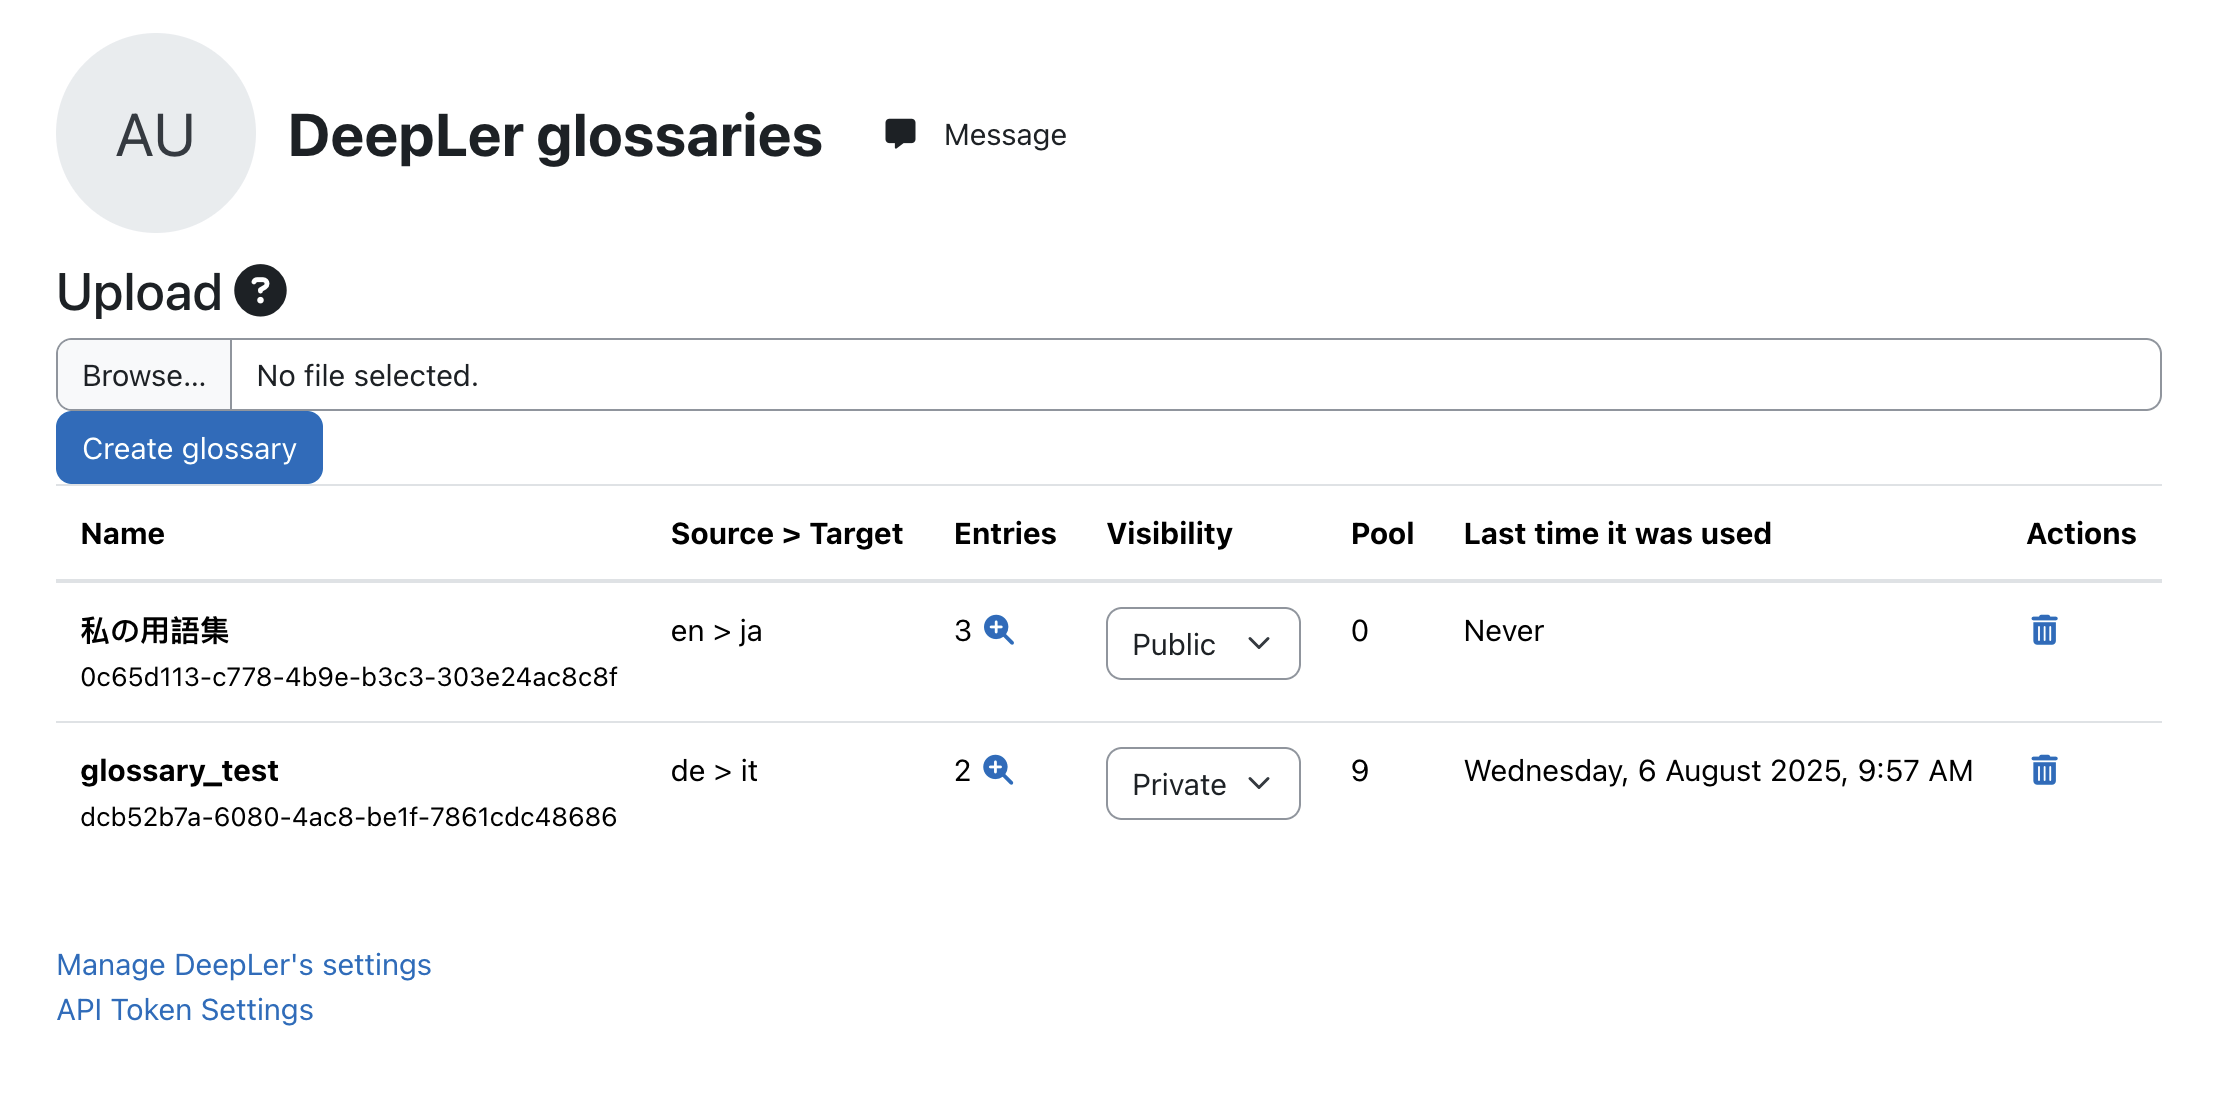
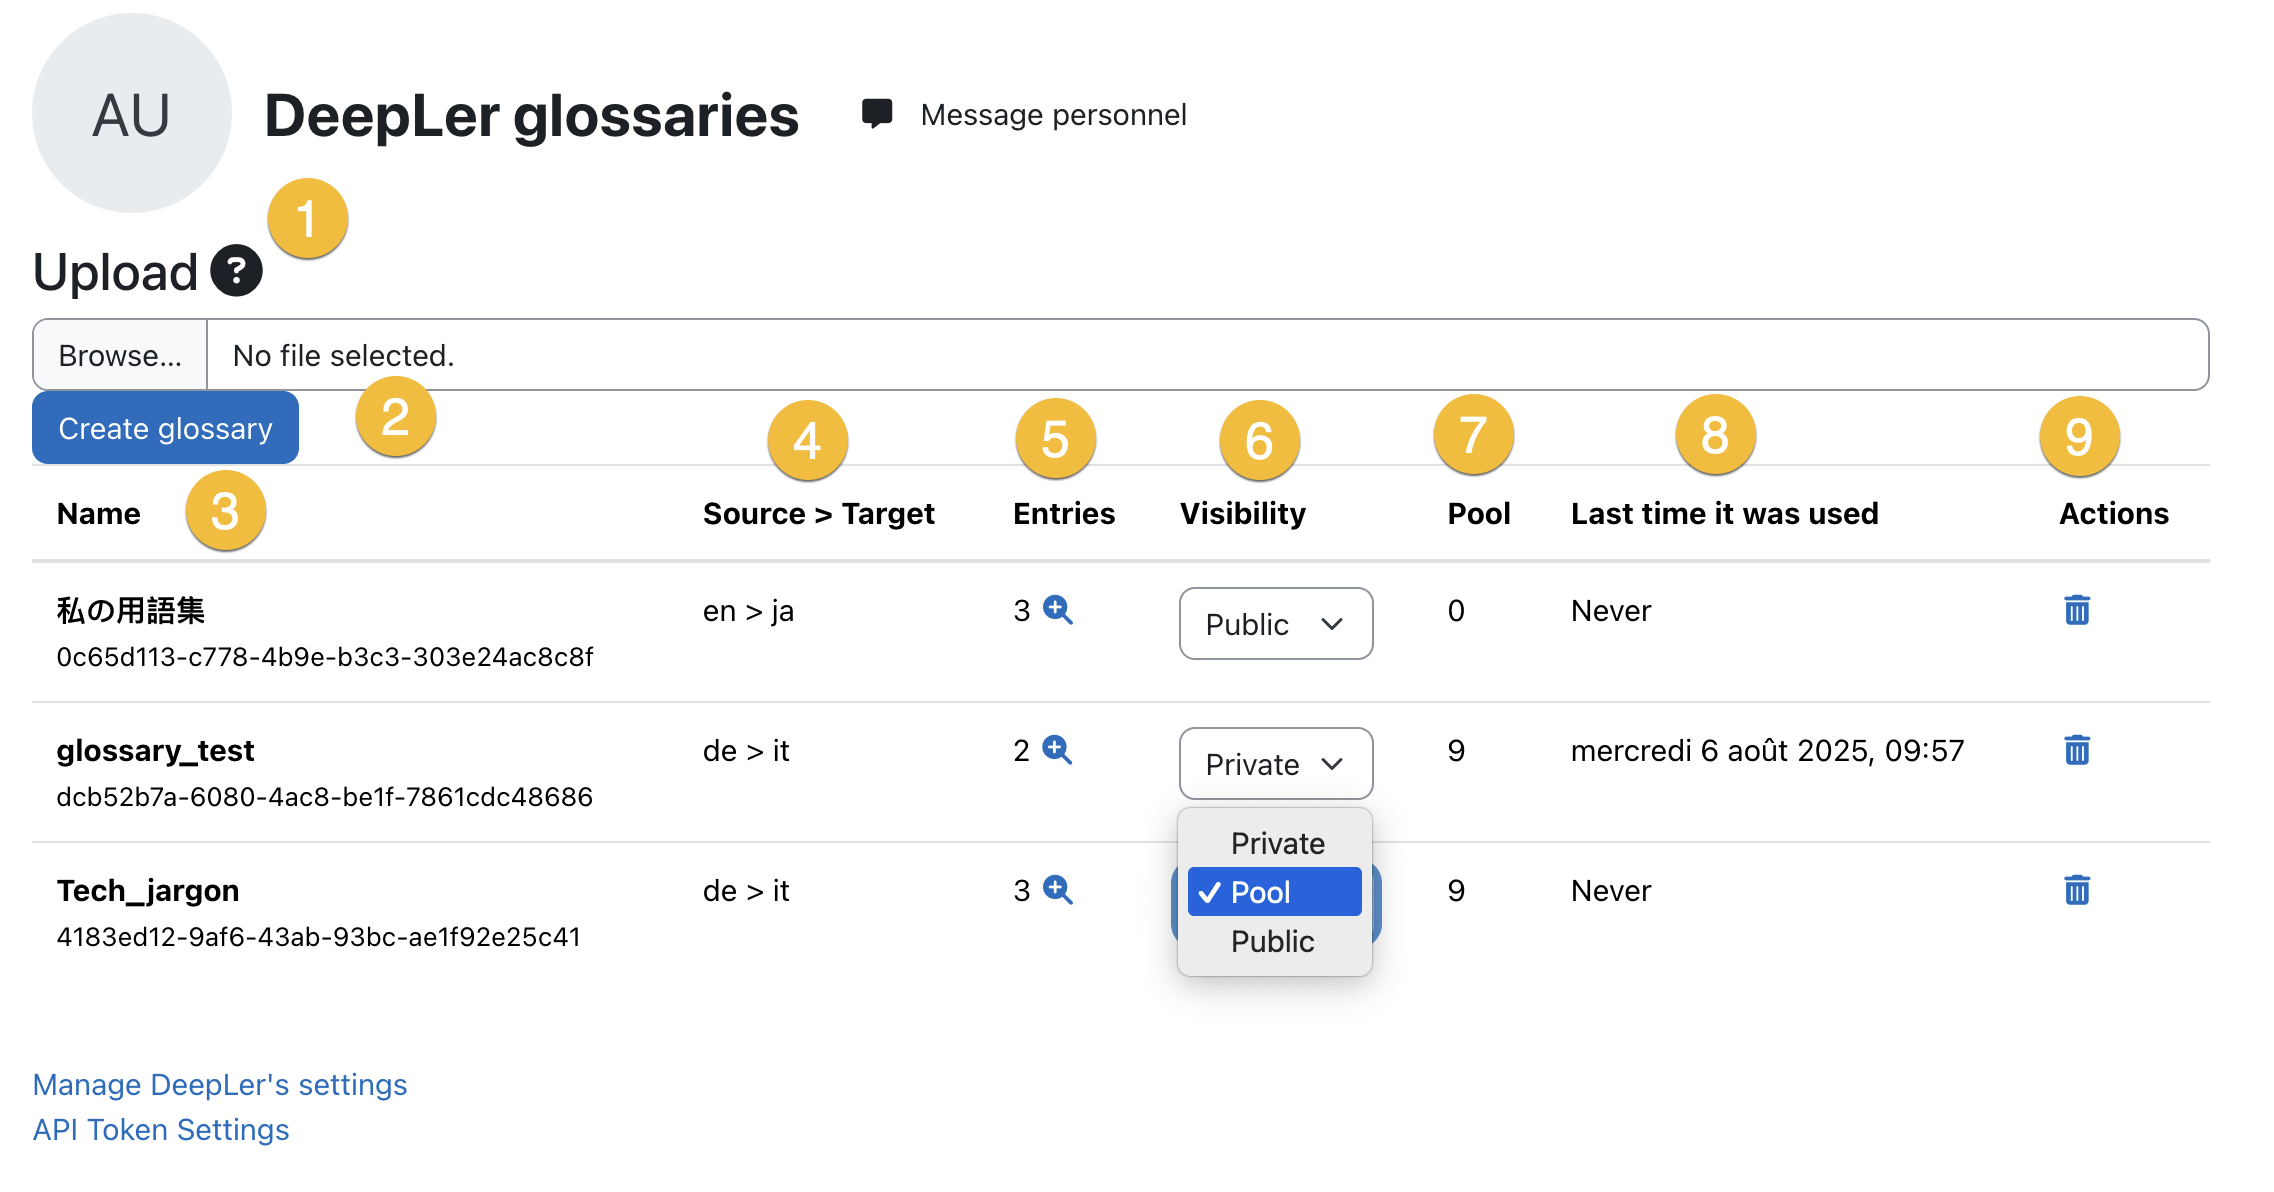
should fix 'stale' and added doc for glossaries

diff --git a/amd/build/local/api.min.js b/amd/build/local/api.min.js
@@ -4,6 +4,6 @@
  * @copyright  2025 Bruno Baudry <bruno.baudry@bfh.ch>
  * @license    http://www.gnu.org/copyleft/gpl.html GNU GPL v3 or later
  */
-define("local_deepler/local/api",["core/log","core/ajax","./utils","./customevents"],((Log,Ajax,Utils,Events)=>{const deeplService=(args,endPoint,successEvent,failedEvent)=>{Ajax.call([{methodname:endPoint,args:args,done:response=>{Events.emit(successEvent,response)},fail:(jqXHR,status,error)=>{Log.debug(`${endPoint} api/translate/fail::jqXHR`),Log.debug(jqXHR),Events.emit(failedEvent,status??"",error??jqXHR.debuginfo??jqXHR.message??jqXHR.errorcode)}}])};return{APP_VERSION:"",GLOSSARY_ENTRIES_SUCCESS:"onGlossaryEntriesSuccess",GLOSSARY_ENTRIES_FAILED:"onGlossaryEntriesFailed",GLOSSARY_DB_SUCCESS:"onDbGlossaryUpdateSuccess",GLOSSARY_DB_FAILED:"onDbGlossaryUpdateFailed",GLOSSARY_DB_ALL_FAILED:"onDbGlossaryUpdateAllFailed",TR_DB_SUCCESS:"onDbUpdateSuccess",TR_DB_FAILED:"onDbUpdateFailed",DEEPL_SUCCESS:"onDeeplTrSuccess",DEEPL_RF_SUCCESS:"onDeeplRfSuccess",DEEPL_FAILED:"onDeeplTrFailed",DEEPL_RF_FAILED:"onDeeplRfFailed",getGlossariesEntries:(glossaryId,source,target)=>{Ajax.call([{methodname:"local_deepler_get_glossary_entries",args:{glossaryid:glossaryId,source:source,target:target},done:response=>{Events.emit("onGlossaryEntriesSuccess",response)},fail:(jqXHR,status,error)=>{Log.error("api/getGlossariesEntries/fail::jqXHR"),Log.error(jqXHR),Events.emit("onGlossaryEntriesFailed",error??jqXHR.debuginfo??jqXHR.message??jqXHR.errorcode??status)}}])},updateGlossariesUsage:glossaries=>{Ajax.call([{methodname:"local_deepler_update_glossary",args:{glossaryids:glossaries},done:response=>{response.forEach((r=>{"error"===r.sattus?Events.emit("onDbGlossaryUpdateFailed",r):Events.emit("onDbGlossaryUpdateSuccess",r)}))},fail:(jqXHR,status,error)=>{Log.error("api/updateGlossariesUsage/fail::jqXHR"),Log.error(jqXHR),Events.emit("onDbGlossaryUpdateAllFailed",error??jqXHR.debuginfo??jqXHR.message??jqXHR.errorcode??status)}}])},updateGlossariesVisibility:(glossaryId,visibility)=>{Ajax.call([{methodname:"local_deepler_update_glossary_visibility",args:{glossaryid:glossaryId,shared:visibility},done:response=>{Events.emit("onDbGlossaryUpdateSuccess",response)},fail:(jqXHR,status,error)=>{Log.error("api/updateGlossariesVisibility/fail::jqXHR"),Log.error(jqXHR),Events.emit("onDbGlossaryUpdateFailed",error??jqXHR.debuginfo??jqXHR.message??jqXHR.errorcode??status)}}])},updateTranslationsInDb:(data,userid,courseid)=>{Ajax.call([{methodname:"local_deepler_update_translation",args:{data:data,userid:userid,courseid:courseid,action:"update"},done:response=>{if(1===response.length&&response[0].error&&""===response[0].keyid)return Log.warn("api/updateTranslationsInDb/done::response has errors"),void Events.emit("onDbUpdateFailed",response[0].error);Events.emit("onDbUpdateSuccess",response)},fail:(jqXHR,status,error)=>{Log.error("api/updateTranslationsInDb/fail::jqXHR"),Log.error(jqXHR),Events.emit("onDbUpdateFailed",error??jqXHR.debuginfo??jqXHR.message??jqXHR.errorcode??status)}}])},translate:(data,options,version)=>{deeplService({translations:data,options:options,version:version},"local_deepler_get_translation","onDeeplTrSuccess","onDeeplTrFailed")},rephrase:(data,options,version)=>{deeplService({rephrasings:data,options:options,version:version},"local_deepler_get_rephrase","onDeeplRfSuccess","onDeeplRfFailed")}}}));
+define("local_deepler/local/api",["core/log","core/ajax","./utils","./customevents"],((Log,Ajax,Utils,Events)=>{const deeplService=(args,endPoint,successEvent,failedEvent)=>{Ajax.call([{methodname:endPoint,args:args,done:response=>{Events.emit(successEvent,response)},fail:(jqXHR,status,error)=>{Log.debug(`${endPoint} api/translate/fail::jqXHR`),Log.debug(jqXHR),Events.emit(failedEvent,status??"",error??jqXHR.debuginfo??jqXHR.message??jqXHR.errorcode)}}])};return{APP_VERSION:"",GLOSSARY_ENTRIES_SUCCESS:"onGlossaryEntriesSuccess",GLOSSARY_ENTRIES_FAILED:"onGlossaryEntriesFailed",GLOSSARY_DB_SUCCESS:"onDbGlossaryUpdateSuccess",GLOSSARY_DB_FAILED:"onDbGlossaryUpdateFailed",GLOSSARY_DB_ALL_FAILED:"onDbGlossaryUpdateAllFailed",TR_DB_SUCCESS:"onDbUpdateSuccess",TR_DB_FAILED:"onDbUpdateFailed",DEEPL_SUCCESS:"onDeeplTrSuccess",DEEPL_RF_SUCCESS:"onDeeplRfSuccess",DEEPL_FAILED:"onDeeplTrFailed",DEEPL_RF_FAILED:"onDeeplRfFailed",getGlossariesEntries:glossaryId=>{Ajax.call([{methodname:"local_deepler_get_glossary_entries",args:{glossaryid:glossaryId},done:response=>{Events.emit("onGlossaryEntriesSuccess",response)},fail:(jqXHR,status,error)=>{Log.error("api/getGlossariesEntries/fail::jqXHR"),Log.error(jqXHR),Events.emit("onGlossaryEntriesFailed",error??jqXHR.debuginfo??jqXHR.message??jqXHR.errorcode??status)}}])},updateGlossariesUsage:glossaries=>{Ajax.call([{methodname:"local_deepler_update_glossary",args:{glossaryids:glossaries},done:response=>{response.forEach((r=>{"error"===r.sattus?Events.emit("onDbGlossaryUpdateFailed",r):Events.emit("onDbGlossaryUpdateSuccess",r)}))},fail:(jqXHR,status,error)=>{Log.error("api/updateGlossariesUsage/fail::jqXHR"),Log.error(jqXHR),Events.emit("onDbGlossaryUpdateAllFailed",error??jqXHR.debuginfo??jqXHR.message??jqXHR.errorcode??status)}}])},updateGlossariesVisibility:(glossaryId,visibility)=>{Ajax.call([{methodname:"local_deepler_update_glossary_visibility",args:{glossaryid:glossaryId,shared:visibility},done:response=>{Events.emit("onDbGlossaryUpdateSuccess",response)},fail:(jqXHR,status,error)=>{Log.error("api/updateGlossariesVisibility/fail::jqXHR"),Log.error(jqXHR),Events.emit("onDbGlossaryUpdateFailed",error??jqXHR.debuginfo??jqXHR.message??jqXHR.errorcode??status)}}])},updateTranslationsInDb:(data,userid,courseid)=>{Ajax.call([{methodname:"local_deepler_update_translation",args:{data:data,userid:userid,courseid:courseid,action:"update"},done:response=>{if(1===response.length&&response[0].error&&""===response[0].keyid)return Log.warn("api/updateTranslationsInDb/done::response has errors"),void Events.emit("onDbUpdateFailed",response[0].error);Events.emit("onDbUpdateSuccess",response)},fail:(jqXHR,status,error)=>{Log.error("api/updateTranslationsInDb/fail::jqXHR"),Log.error(jqXHR),Events.emit("onDbUpdateFailed",error??jqXHR.debuginfo??jqXHR.message??jqXHR.errorcode??status)}}])},translate:(data,options,version)=>{deeplService({translations:data,options:options,version:version},"local_deepler_get_translation","onDeeplTrSuccess","onDeeplTrFailed")},rephrase:(data,options,version)=>{deeplService({rephrasings:data,options:options,version:version},"local_deepler_get_rephrase","onDeeplRfSuccess","onDeeplRfFailed")}}}));
 
 //# sourceMappingURL=api.min.js.map

diff --git a/amd/src/local/api.js b/amd/src/local/api.js
@@ -86,18 +86,12 @@ define(['core/log', 'core/ajax', './utils', './customevents'], (Log, Ajax, Utils
      * Service to update used glossary visibility.
      *
      * @param {string} glossaryId
-     * @param {string} source
-     * @param {string} target
      */
-    const getGlossariesEntries = (glossaryId, source, target)=>{
+    const getGlossariesEntries = (glossaryId)=>{
         Ajax.call([
             {
                 methodname: "local_deepler_get_glossary_entries",
-                args: {
-                    'glossaryid': glossaryId,
-                    'source': source,
-                    'target': target,
-                },
+                args: {'glossaryid': glossaryId},
                 done: (response)=>{
                     Events.emit(GLOSSARY_ENTRIES_SUCCESS, response);
                 },

diff --git a/classes/external/get_glossary_entries.php b/classes/external/get_glossary_entries.php
@@ -47,33 +47,33 @@ class get_glossary_entries extends external_api {
      * @throws \dml_exception
      * @throws \invalid_parameter_exception
      */
-    public static function execute(string $glossaryid, string $source, string $target): array {
+    public static function execute(string $glossaryid): array {
         global $DB;
 
-        $params = self::validate_parameters(self::execute_parameters(), [
-                'glossaryid' => $glossaryid,
-                'source' => $source,
-                'target' => $target,
-        ]);
+        $params = self::validate_parameters(self::execute_parameters(), ['glossaryid' => $glossaryid]);
         $key = self::setdeeplapikey();
         try {
+            $glossaryid = $params['glossaryid'];
             $translator = new DeepLClient($key);
-            $ge = $translator->getGlossaryEntries($params['glossaryid']);
+            $glo = $translator->getGlossary($glossaryid);
+            $sourcelang = $glo->sourceLang;
+            $targetlang = $glo->targetLang;
+            $ge = $translator->getGlossaryEntries($glossaryid);
             return [
-                    'glossaryid' => $params['glossaryid'],
+                    'glossaryid' => $glossaryid,
                     'entries' => json_encode($ge->getEntries(), JSON_UNESCAPED_UNICODE | JSON_UNESCAPED_SLASHES),
                     'status' => 'success',
                     'message' => 'Shared value updated',
-                    'source' => $params['source'],
-                    'target' => $params['target'],
+                    'source' => $sourcelang,
+                    'target' => $targetlang,
             ];
         } catch (DeepLException $exception) {
             return [
-                    'glossaryid' => $params['glossaryid'],
+                    'glossaryid' => $glossaryid,
                     'entries' => '',
                     'status' => 'error',
-                    'source' => $params['source'],
-                    'target' => $params['target'],
+                    'source' => $sourcelang ?? 'source',
+                    'target' => $targetlang ?? 'target',
                     'message' => $exception->getMessage(),
             ];
         }
@@ -86,12 +86,7 @@ class get_glossary_entries extends external_api {
      * @return \external_function_parameters
      */
     public static function execute_parameters(): external_function_parameters {
-        return new external_function_parameters(
-                [
-                        'glossaryid' => new external_value(PARAM_TEXT, 'Glossary ID'),
-                        'source' => new external_value(PARAM_TEXT, 'Glossary SOURCE'),
-                        'target' => new external_value(PARAM_TEXT, 'Glossary TARGET'),
-                ]);
+        return new external_function_parameters(['glossaryid' => new external_value(PARAM_TEXT, 'Glossary ID')]);
     }
 
     /**

diff --git a/classes/local/services/lang_helper.php b/classes/local/services/lang_helper.php
@@ -631,19 +631,21 @@ class lang_helper {
     /**
      * Getter for current lang.
      *
+     * @param bool $mainlonly
      * @return string
      */
-    public function getcurrentlang(): string {
-        return $this->currentlang;
+    public function getcurrentlang(bool $mainlonly = false): string {
+        return $mainlonly ? substr($this->currentlang, 0, 2) : $this->currentlang;
     }
 
     /**
      * Getter for chosen target.
      *
+     * @param bool $mainlonly
      * @return string
      */
-    public function gettargetlang(): string {
-        return $this->targetlang;
+    public function gettargetlang(bool $mainlonly = false): string {
+        return $mainlonly ? substr($this->targetlang, 0, 2) : $this->targetlang;
     }
 
     /**

diff --git a/classes/output/translate_page.php b/classes/output/translate_page.php
@@ -137,7 +137,7 @@ class translate_page implements renderable, templatable {
         $publicglossaries = $this->langpacks->getpublicglossaries() ?? [];
         $glo = array_merge($glossaries, $publicglossaries, $poolglossaries);
         $data->glossayselector = $glorenderer->glossay_selector_deepl($glo,
-                $this->langpacks->getcurrentlang(), $this->langpacks->gettargetlang());
+                $this->langpacks->getcurrentlang(true), $this->langpacks->gettargetlang(true));
         return $data;
     }
 }

diff --git a/classes/output/glossary_renderer.php b/classes/output/glossary_renderer.php
@@ -208,7 +208,6 @@ class glossary_renderer extends plugin_renderer_base {
      */
     public function glossay_selector_deepl(array $glossaries, string $sourcelang, string $targetlang): string {
         $glossarylist = [];
-
         foreach ($glossaries as $g) {
             if ($g->sourcelang === $sourcelang && $g->targetlang === $targetlang) {
                 $nameadd = ' (' . get_string('glossary:visibility:private', 'local_deepler') . ')';

diff --git a/tests/translate_test.php b/tests/translate_test.php
@@ -78,6 +78,8 @@ final class translate_test extends advanced_testcase {
      *
      * @covers \local_deepler\local\data\course
      * @return void
+     * @throws \core\exception\moodle_exception
+     * @throws \moodle_exception
      */
     public function test_course_data(): void {
         global $CFG;

diff --git a/tests/local/data/multilanger_test.php b/tests/local/data/multilanger_test.php
@@ -15,7 +15,6 @@
 // along with Moodle.  If not, see <http://www.gnu.org/licenses/>.
 
 namespace local_deepler\local\data;
-
 use advanced_testcase;
 use coding_exception;
 use lang_string;

diff --git a/README.md b/README.md
@@ -46,8 +46,19 @@ Translation workflow being the following:
   * [Token manager (mapping user to DeepL's API keys)](#token-manager-mapping-user-to-deepls-api-keys)
 - [Glossaries' management (NEW since v1.9)](#glossaries-management-new-since-v19)
   * [Admin glossaries](#admin-glossaries)
-    + [File naming and formating conventions](#file-naming-and-formating-conventions)
+    + [1. File naming and formating conventions](#1-file-naming-and-formating-conventions)
       - [DeepLer does not manage bi directional glossaries.](#deepler-does-not-manage-bi-directional-glossaries)
+    + [2. Select and upload](#2-select-and-upload)
+    + [3. Name and Glossary ID](#3-name-and-glossary-id)
+    + [4. Source > Target](#4-source--target)
+    + [5. Entries](#5-entries)
+    + [6. Visibility](#6-visibility)
+    + [7. Pool](#7-pool)
+    + [8. Last time it was used](#8-last-time-it-was-used)
+    + [9. Actions](#9-actions)
+  * [Users' glossaries](#users-glossaries)
+    + [Public and Pool glossaries](#public-and-pool-glossaries)
+    + [Private glossaries](#private-glossaries)
 - [Translating](#translating)
   * [Advanced settings](#advanced-settings)
     + [Deepl API setting](#deepl-api-setting)
@@ -200,20 +211,24 @@ Glossaries are added to your Moodle instance in 3 different ways:
 
 ### Admin glossaries
 
-Once the admin has set the main api key 2 additional links will display.
+Once the admin has set the main api key, 2 additional links will display.
 ![](pix/admin_additionaltabs.png)
 
 Click on "Deepler glossaries" to manage them.
 
-#### File naming and formating conventions
+![](pix/glossaries_admin.png)
+
+#### 1. File naming and formating conventions
 
 In order to simplify the process you must follow the file naming conventions below.
+_(The ? help icon will help you remember the instructions listed below)_
 
 1.  File extension must be .csv (no .tsv)
 2.  Rename the GLOSSARYNAME\_SOURCE-TARGET.
 4.  Name it meaningfully but not too long (for a nice display in tables).
 5.  No header in the csv file. 
 6.  SOURCE and TARGET must be 2 character language code.
+  1. (Sub languages for target are not allowed)
 4.  DeepL does not manage bi directional glossaries.
 
 **Expl OK:**
@@ -249,7 +264,76 @@ Expl When translating ES > FR
 | exquisito | delicieux |
 | mouse | mouse |
 
+#### 2. Select and upload
 
+Select here a file on your file system and upload it.
+If the file does not match the above conventions error messages will display.
+
+Upon successful upload, the Glossary is transmitted to DeepL, its metadata stored in Moodle DB and listed in the same page below.
+
+#### 3. Name and Glossary ID
+
+The first column displays the name of both Glossaries retrieved from DeepL and those uploaded from Moodle:
+
+- The one you gave the CSV file without the suffix.
+- The name given when created in DeepL's interface.
+
+Below the name is DeepL's glossary uuid, this what will be transmitted when calling the translations.
+
+#### 4. Source > Target
+
+Displays the glossary's source and target language.
+
+#### 5. Entries
+
+Clicking on the +magnifier will display all the pairs defined. 
+
+#### 6. Visibility
+
+Here you can set who can use the glossary.
+
+1. Private
+   2. Only the user that uploaded it.
+   3. Glossaries uploaded via your DeepL.com account have no user, so setting it 'private' would be like disabling it.
+4. Pool
+   5. All users mapped to a DeepL API token will have access to that glossary (see token management).
+   6. Glossaries uploaded via your DeepL.com account are mapped to the main API token (id 0). So only admin or users that are not mapped to a sub token (providing you set 
+      "Allow fallback key" to true) will have access to that glossary.
+7. Public
+   8. Public glossaries are accessible by any user.
+   9. Only Admins can set this visibility.
+
+#### 7. Pool
+
+The is the DB id of the token the user that uploaded is affiliated with.
+When you set the visibility to 'Pool' all users in mapped to the same token will access the glossary.
+
+#### 8. Last time it was used
+
+Each time a translator uses a Glossary (by selecting it in the advanced settings) a time stamp is stored in DB.
+This is usefull mainly to cleanup unused glossaries.
+
+#### 9. Actions
+
+For now only deletion.  
+__Deleting a glossary here will delete it from DeepL.com too__
+
+### Users' glossaries
+Non admin users, hence translators, can manage their won set of glossaries.
+
+![](pix/glossaries_userprefs.png)
+
+#### Public and Pool glossaries
+
+These are Glossaries shared by the site admin or one of the translators sharing the same API token as the current user.
+
+#### Private glossaries
+
+Are the ones uploaded by the current user.
+The **visibility** can be:
+
+- Private: not shared
+- Pool: shared with other translators sharing the same token.
 
 ## Translating
 
@@ -340,7 +424,7 @@ But will then save it as the main language in the DB.
 
 For example if you have a EN package you will be able to choose either EN-GB or EN-US as your target language, but it will save it as {mlang en}
 
-Make sure you set the correct multilangv2 setting for that matter.
+Make sure you set the correct Multilang-V2 setting for that matter.
 
 #### Source language
 
